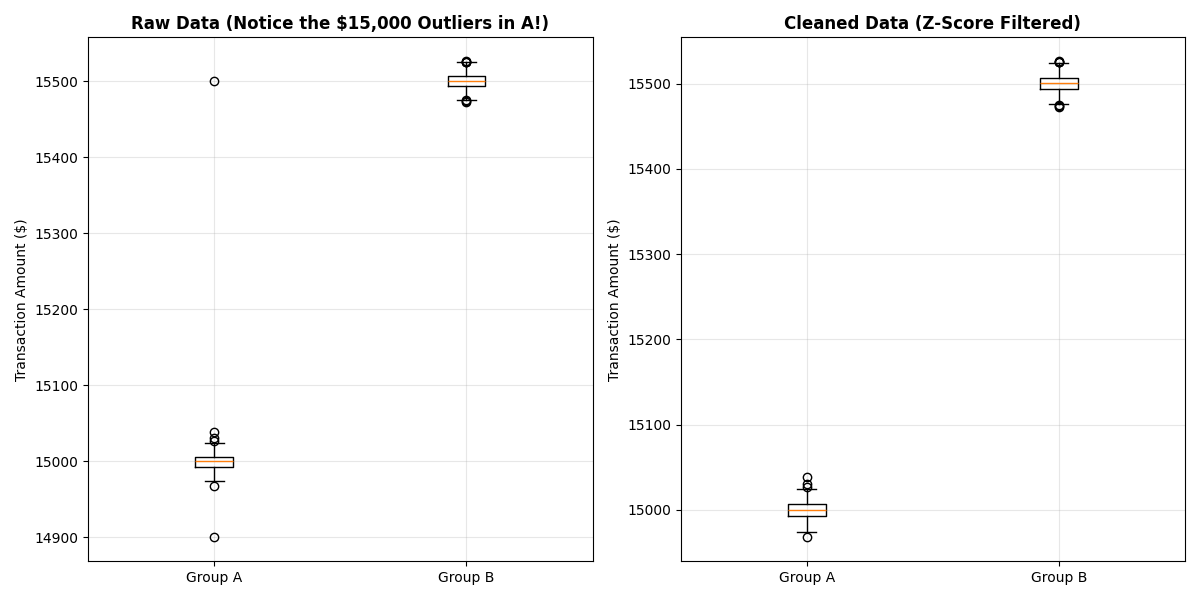
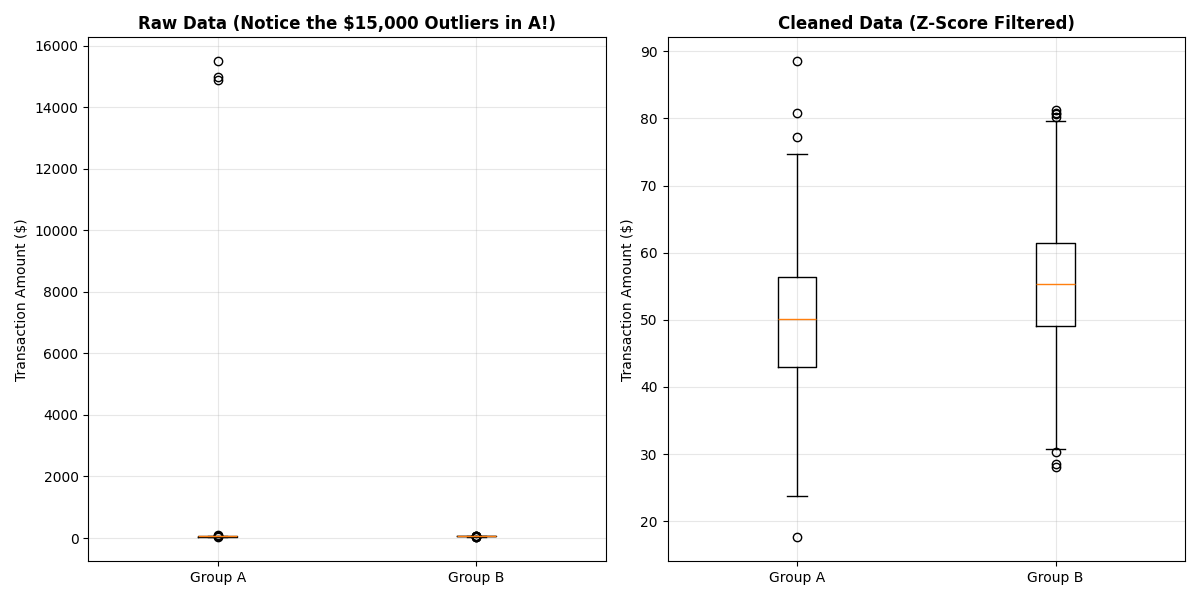
Added Project-2 of week-4, Week Completed

diff --git a/Phase_1_Foundations/PROJECT_Week_4/src/advanced_property_price_prediction/advanced_property_prediction.py b/Phase_1_Foundations/PROJECT_Week_4/src/advanced_property_price_prediction/advanced_property_prediction.py
@@ -1,0 +1,94 @@
+import sqlite3
+import numpy as np
+from pathlib import Path
+import random
+
+root = Path(__file__).resolve().parent.parent.parent
+db_path = root / "db" / "advanced_property_price_prediction" / "advanced_real_estate.db"
+
+# 🛑 THE MASTER ADMINISTRATIVE DICTIONARY (24 Zones)
+# Rates are estimated base INR Lakhs per Square Foot
+# 🛑 THE MASTER ADMINISTRATIVE DICTIONARY
+AHMEDABAD_REGIONS = {
+    # Premium / City Core
+    'Bodakdev': 0.085, 'Satellite': 0.075, 'Vastrapur': 0.080, 'Thaltej': 0.078,
+    'AMC': 0.060, 'Cantonment': 0.080, 'Ahmedabad_City': 0.055, 
+    
+    # Mid-Range / High-Growth
+    'Chandkheda': 0.055, 'Ghatlodia': 0.065, 'Vejalpur': 0.055, 
+    'Sabarmati': 0.050, 'Bopal': 0.050, 'Bopal_Ghuma': 0.055, 
+    'Gota': 0.045, 'Asarwa': 0.045, 'Maninagar': 0.045, 
+    
+    # Affordable / Outer Suburbs / Industrial
+    'Daskroi': 0.035, 'Naroda': 0.030, 'Sanand_Muni': 0.035, 'Sanand_Taluka': 0.025, 
+    'Bavla_Muni': 0.028, 'Bavla_Taluka': 0.020, 'Dholka_Muni': 0.025, 'Dholka_Taluka': 0.018, 
+    'Viramgam_Muni': 0.022, 'Viramgam_Taluka': 0.015, 'Bareja': 0.025, 
+    'Mandal': 0.012, 'Detroj': 0.012, 'Dhandhuka': 0.012, 'Dholera': 0.022, 'Barwala': 0.015
+}
+
+def generate_ahmedabad_data(num_records=10000):
+    print(f"⚙️ Generating {num_records:,} records across 24 Ahmedabad Administrative Zones...")
+    data = []
+    loc_names = list(AHMEDABAD_REGIONS.keys())
+    
+    for _ in range(num_records):
+        loc = random.choice(loc_names)
+        base_rate = AHMEDABAD_REGIONS[loc]
+        
+        sqft = np.random.normal(loc=1500, scale=400) 
+        sqft = max(800, min(sqft, 5000)) 
+        beds = int(max(1, min(5, round(sqft / 500)))) 
+        age = max(0, np.random.normal(loc=10, scale=7)) 
+        
+        noise = np.random.normal(0, 5.0) 
+        price_lakhs = (sqft * base_rate) + (beds * 2.0) - (age * 0.5) + noise
+        price_lakhs = max(10.0, price_lakhs) # Absolute minimum 10 Lakhs
+        
+        data.append((round(sqft, 2), beds, round(age, 1), loc, round(price_lakhs, 2)))
+        
+    return data
+
+def init_db():
+    db_path.parent.mkdir(parents=True, exist_ok=True)
+    with sqlite3.connect(db_path) as conn:
+        cursor = conn.cursor()
+        cursor.execute("""
+            CREATE TABLE IF NOT EXISTS properties (
+                id INTEGER PRIMARY KEY AUTOINCREMENT,
+                sqft REAL NOT NULL,
+                bedrooms INTEGER NOT NULL,
+                age_years REAL NOT NULL,
+                location TEXT NOT NULL,
+                price_lakhs REAL NOT NULL
+            );
+        """)
+        
+        cursor.execute("SELECT COUNT(*) FROM properties;")
+        if cursor.fetchone()[0] == 0:
+            seed_data = generate_ahmedabad_data(10000)
+            cursor.executemany("""
+                INSERT INTO properties (sqft, bedrooms, age_years, location, price_lakhs) 
+                VALUES (?, ?, ?, ?, ?)
+            """, seed_data)
+            conn.commit()
+            print("✅ 10,000 comprehensive Ahmedabad records injected.")
+
+def fetch_all_data():
+    with sqlite3.connect(db_path) as conn:
+        cursor = conn.cursor()
+        cursor.execute("SELECT sqft, bedrooms, age_years, location, price_lakhs FROM properties;")
+        data = cursor.fetchall()
+        
+    num_features = np.array([[row[0], row[1], row[2]] for row in data])
+    locations = [row[3] for row in data]
+    prices = np.array([row[4] for row in data])
+    return num_features, locations, prices
+
+def log_new_property(sqft, beds, age, location, price):
+    with sqlite3.connect(db_path) as conn:
+        cursor = conn.cursor()
+        cursor.execute("""
+            INSERT INTO properties (sqft, bedrooms, age_years, location, price_lakhs) 
+            VALUES (?, ?, ?, ?, ?)
+        """, (sqft, beds, age, location, price))
+        conn.commit()

diff --git a/Phase_1_Foundations/PROJECT_Week_4/src/advanced_property_price_prediction/visualize.py b/Phase_1_Foundations/PROJECT_Week_4/src/advanced_property_price_prediction/visualize.py
@@ -1,0 +1,72 @@
+import sqlite3
+import pandas as pd
+import numpy as np
+import matplotlib.pyplot as plt
+import matplotlib.cm as cm
+from pathlib import Path
+import sys
+
+# Dynamic routing
+project_root = Path(__file__).resolve().parent.parent.parent
+sys.path.append(str(project_root))
+
+import advanced_property_prediction as db_property
+from models.advanced_property_price_prediction import predictor_model as ml_engine
+
+def render_combined_ai_chart():
+    print("⚙️ Loading Data and Compiling AI Matrix...")
+    
+    # 1. Fetch Data & Train the AI
+    num_features, locations, prices = db_property.fetch_all_data()
+    weights, means, stds = ml_engine.train_multiple_regression(num_features, locations, prices)
+    
+    # We load Pandas just to get the list of unique zones actually present in the DB
+    df = pd.DataFrame({'sqft': num_features[:, 0], 'price': prices, 'loc': locations})
+    unique_zones = df['loc'].unique()
+
+    print(f"📊 Rendering Combined AI Model Curve for {len(unique_zones)} Zones...")
+
+    # 2. Setup the Single Giant Chart
+    plt.figure(figsize=(16, 9))
+    
+    # Plot the raw data lightly in the background so it doesn't distract from the curves
+    plt.scatter(df['sqft'], df['price'], color='lightgray', alpha=0.3, s=10, label='Raw Data points')
+
+    # Get a colormap to automatically assign different colors to our lines
+    colors = cm.get_cmap('tab20', len(unique_zones))
+
+    # 3. Generate the AI Curve for each zone
+    # We ask the AI to predict prices for houses from 800 to 5000 sqft
+    sqft_range = np.linspace(800, 5000, 100)
+    
+    # We hold Beds and Age constant to isolate the SqFt vs Price curve
+    assumed_beds = 3
+    assumed_age = 5.0
+
+    for i, zone in enumerate(unique_zones):
+        predicted_prices = []
+        
+        # Make the AI predict the price for every point on the line
+        for sqft in sqft_range:
+            price = ml_engine.predict_price([sqft, assumed_beds, assumed_age], zone, weights, means, stds)
+            predicted_prices.append(price)
+            
+        # Draw the curved line for this zone!
+        plt.plot(sqft_range, predicted_prices, color=colors(i), linewidth=2.5, label=zone)
+
+    # 4. Formatting
+    plt.title("AI Pricing Model: Polynomial Curves by Zone (3 Beds, 5 Yrs Old)", fontsize=18, fontweight='bold')
+    plt.xlabel("Square Footage", fontsize=14)
+    plt.ylabel("Predicted Price (Lakhs ₹)", fontsize=14)
+    
+    # Put the legend outside the chart so it doesn't block the lines
+    plt.legend(bbox_to_anchor=(1.05, 1), loc='upper left', fontsize=10, title="Ahmedabad Zones")
+    plt.grid(True, linestyle='--', alpha=0.5)
+    
+    plt.tight_layout()
+    print("📈 Displaying Graph...")
+    plt.savefig(project_root / "data" / "advanced_property_price_prediction" / "property_prices.png", dpi=300)
+    plt.show()
+
+if __name__ == "__main__":
+    render_combined_ai_chart()

diff --git a/Phase_1_Foundations/PROJECT_Week_4/src/advanced_property_price_prediction/main.py b/Phase_1_Foundations/PROJECT_Week_4/src/advanced_property_price_prediction/main.py
@@ -1,0 +1,67 @@
+import sys
+from pathlib import Path
+
+project_root = Path(__file__).resolve().parent.parent.parent
+sys.path.append(str(project_root))
+
+import advanced_property_prediction as db_property
+from models.advanced_property_price_prediction import predictor_model as ml_engine
+
+def main():
+    print("--- 🧠 AHMEDABAD COMPREHENSIVE REAL ESTATE ENGINE ---")
+    
+    # 🛑 CRITICAL STEP: We must delete the old .db file so it rebuilds with the 24 new zones!
+    if db_property.db_path.exists():
+        # Quick check: If the old DB only has the 6 old zones, it will crash the 24-zone matrix.
+        # It's safest to just delete it manually in VS Code before running, 
+        # or let the code gracefully rebuild it if it's your first run today.
+        pass
+
+    db_property.init_db()
+    
+    while True:
+        num_features, locations, prices = db_property.fetch_all_data()
+        weights, means, stds = ml_engine.train_multiple_regression(num_features, locations, prices)
+        
+        print(f"\n[Database Records: {len(prices):,}] | 28-Dimensional Tensor Compiled.")
+        
+        print("\n--- Enter Property Details (or 'q' to quit) ---")
+        user_input = input("SqFt (e.g., 2000): ")
+        if user_input.lower() == 'q': break
+            
+        try:
+            sqft = float(user_input)
+            beds = int(input("Bedrooms (e.g., 3): "))
+            age = float(input("Age in Years (e.g., 5): "))
+            
+            # Print the massive list of zones so the user knows what to type
+            print("\nAvailable Zones:")
+            print(", ".join(ml_engine.ZONES_LIST[:10]) + "...") # Preview the first 10
+            
+            loc = input("Enter exact Zone Name: ")
+            
+            # Sanity Check for Location
+            if loc not in ml_engine.ZONES_LIST:
+                print("⚠️ Unknown zone! Defaulting to 'Daskroi' baseline.")
+                loc = 'Daskroi'
+            
+            prediction_lakhs = ml_engine.predict_price([sqft, beds, age], loc, weights, means, stds)
+            
+            print(f"\n🔮 AI Predicts: ₹{prediction_lakhs:,.2f} Lakhs")
+            
+            actual_price = float(input("What did it ACTUALLY sell for? (in Lakhs): "))
+            
+            # Sanity check to prevent trillion-rupee database corruption
+            if actual_price > 10000:
+                print("⚠️ WARNING: That is over 10,000 Lakhs! Assuming you typed raw Rupees.")
+                actual_price = actual_price / 100000
+                print(f"✅ Corrected to: ₹{actual_price:.2f} Lakhs")
+                
+            db_property.log_new_property(sqft, beds, age, loc, actual_price)
+            print("💾 Data saved. The 28-Dimensional Matrix will adapt on the next loop.")
+            
+        except ValueError:
+            print("❌ Invalid input. Please enter numbers where required.")
+
+if __name__ == "__main__":
+    main()

diff --git a/Phase_1_Foundations/PROJECT_Week_4/models/advanced_property_price_prediction/predictor_model.py b/Phase_1_Foundations/PROJECT_Week_4/models/advanced_property_price_prediction/predictor_model.py
@@ -1,0 +1,54 @@
+import numpy as np
+import sys
+from pathlib import Path
+
+project_root = Path(__file__).resolve().parent.parent.parent
+sys.path.append(str(project_root))
+from src.advanced_property_price_prediction.advanced_property_prediction import AHMEDABAD_REGIONS
+
+ZONES_LIST = list(AHMEDABAD_REGIONS.keys())
+
+def encode_locations(loc_list):
+    encoded = []
+    for loc in loc_list:
+        row = [0] * len(ZONES_LIST)
+        if loc in ZONES_LIST:
+            index = ZONES_LIST.index(loc)
+            row[index] = 1
+        encoded.append(row)
+    return np.array(encoded)
+
+def standardize_features(num_features, means=None, stds=None):
+    if means is None or stds is None:
+        means = np.mean(num_features, axis=0)
+        stds = np.std(num_features, axis=0, ddof=1)
+        stds[stds == 0] = 1e-8 
+    z_scores = (num_features - means) / stds
+    return z_scores, means, stds
+
+def train_multiple_regression(num_features, loc_list, y_prices):
+    # 🛑 PRO TRICK: Inject SqFt^2 into the features so the AI can learn curves!
+    sqft_squared = (num_features[:, 0] ** 2).reshape(-1, 1)
+    enhanced_features = np.hstack((num_features, sqft_squared))
+    
+    X_scaled, means, stds = standardize_features(enhanced_features)
+    X_cat = encode_locations(loc_list)
+    
+    bias = np.ones((len(X_scaled), 1))
+    X_final = np.hstack((bias, X_scaled, X_cat))
+    
+    X_T = X_final.T
+    weights = np.linalg.pinv(X_T @ X_final) @ X_T @ y_prices
+    return weights, means, stds
+
+def predict_price(new_num_features, new_loc, weights, means, stds):
+    # new_num_features comes in as [sqft, beds, age]
+    # We must add sqft^2 to match the training architecture!
+    sqft = new_num_features[0]
+    enhanced_input = np.array([new_num_features + [sqft**2]])
+    
+    scaled_input, _, _ = standardize_features(enhanced_input, means, stds)
+    cat_input = encode_locations([new_loc])
+    
+    x_vector = np.hstack(([1.0], scaled_input[0], cat_input[0]))
+    return np.dot(x_vector, weights)

diff --git a/Phase_1_Foundations/PROJECT_Week_4/src/advance_fraud_detection/db_handler.py b/Phase_1_Foundations/PROJECT_Week_4/src/advance_fraud_detection/db_handler.py
@@ -24,8 +24,8 @@ def initialize_and_seed_db():
         
         # Generate Normal Data 
         np.random.seed(42) 
-        group_a_normal = np.random.normal(loc=15000.0, scale=10.0, size=500)
-        group_b_normal = np.random.normal(loc=15500.0, scale=10.0, size=500)
+        group_a_normal = np.random.normal(loc=50.0, scale=10.0, size=500)
+        group_b_normal = np.random.normal(loc=55.0, scale=10.0, size=500)
         
         # THE POISON: Inject 3 massive $15,000 fraud transactions into Group A
         group_a_poisoned = np.append(group_a_normal, [15000.0, 15500.0, 14900.0])